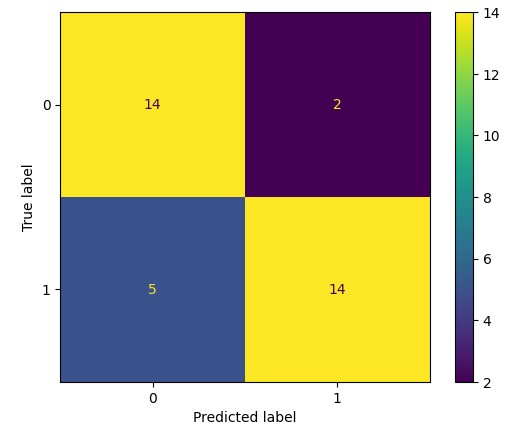
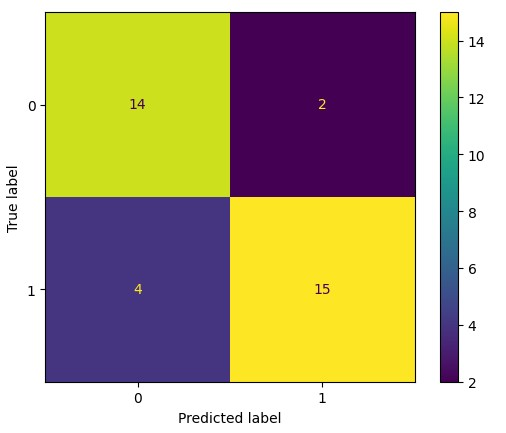
changed readme

diff --git a/README.md b/README.md
@@ -29,5 +29,5 @@ Multiple models were tested. Among them XGBoost performer best. which is a regul
 | Model            |    Support Vector Machine    |        Logistics Regression        |             XGBoost              |
 | ---------------- | :--------------------------: | :--------------------------------: | :------------------------------: |
 | Confusion Matrix | ![](Task%201/assets/svm.jpg) | ![](Task%201/assets/logistics.jpg) | ![](Task%201/assets/xgboost.jpg) |
-| Accuracy         |             0.54             |                0.57                |               0.8                |
+| Accuracy         |             0.54             |                0.57                |               0.83               |
 
